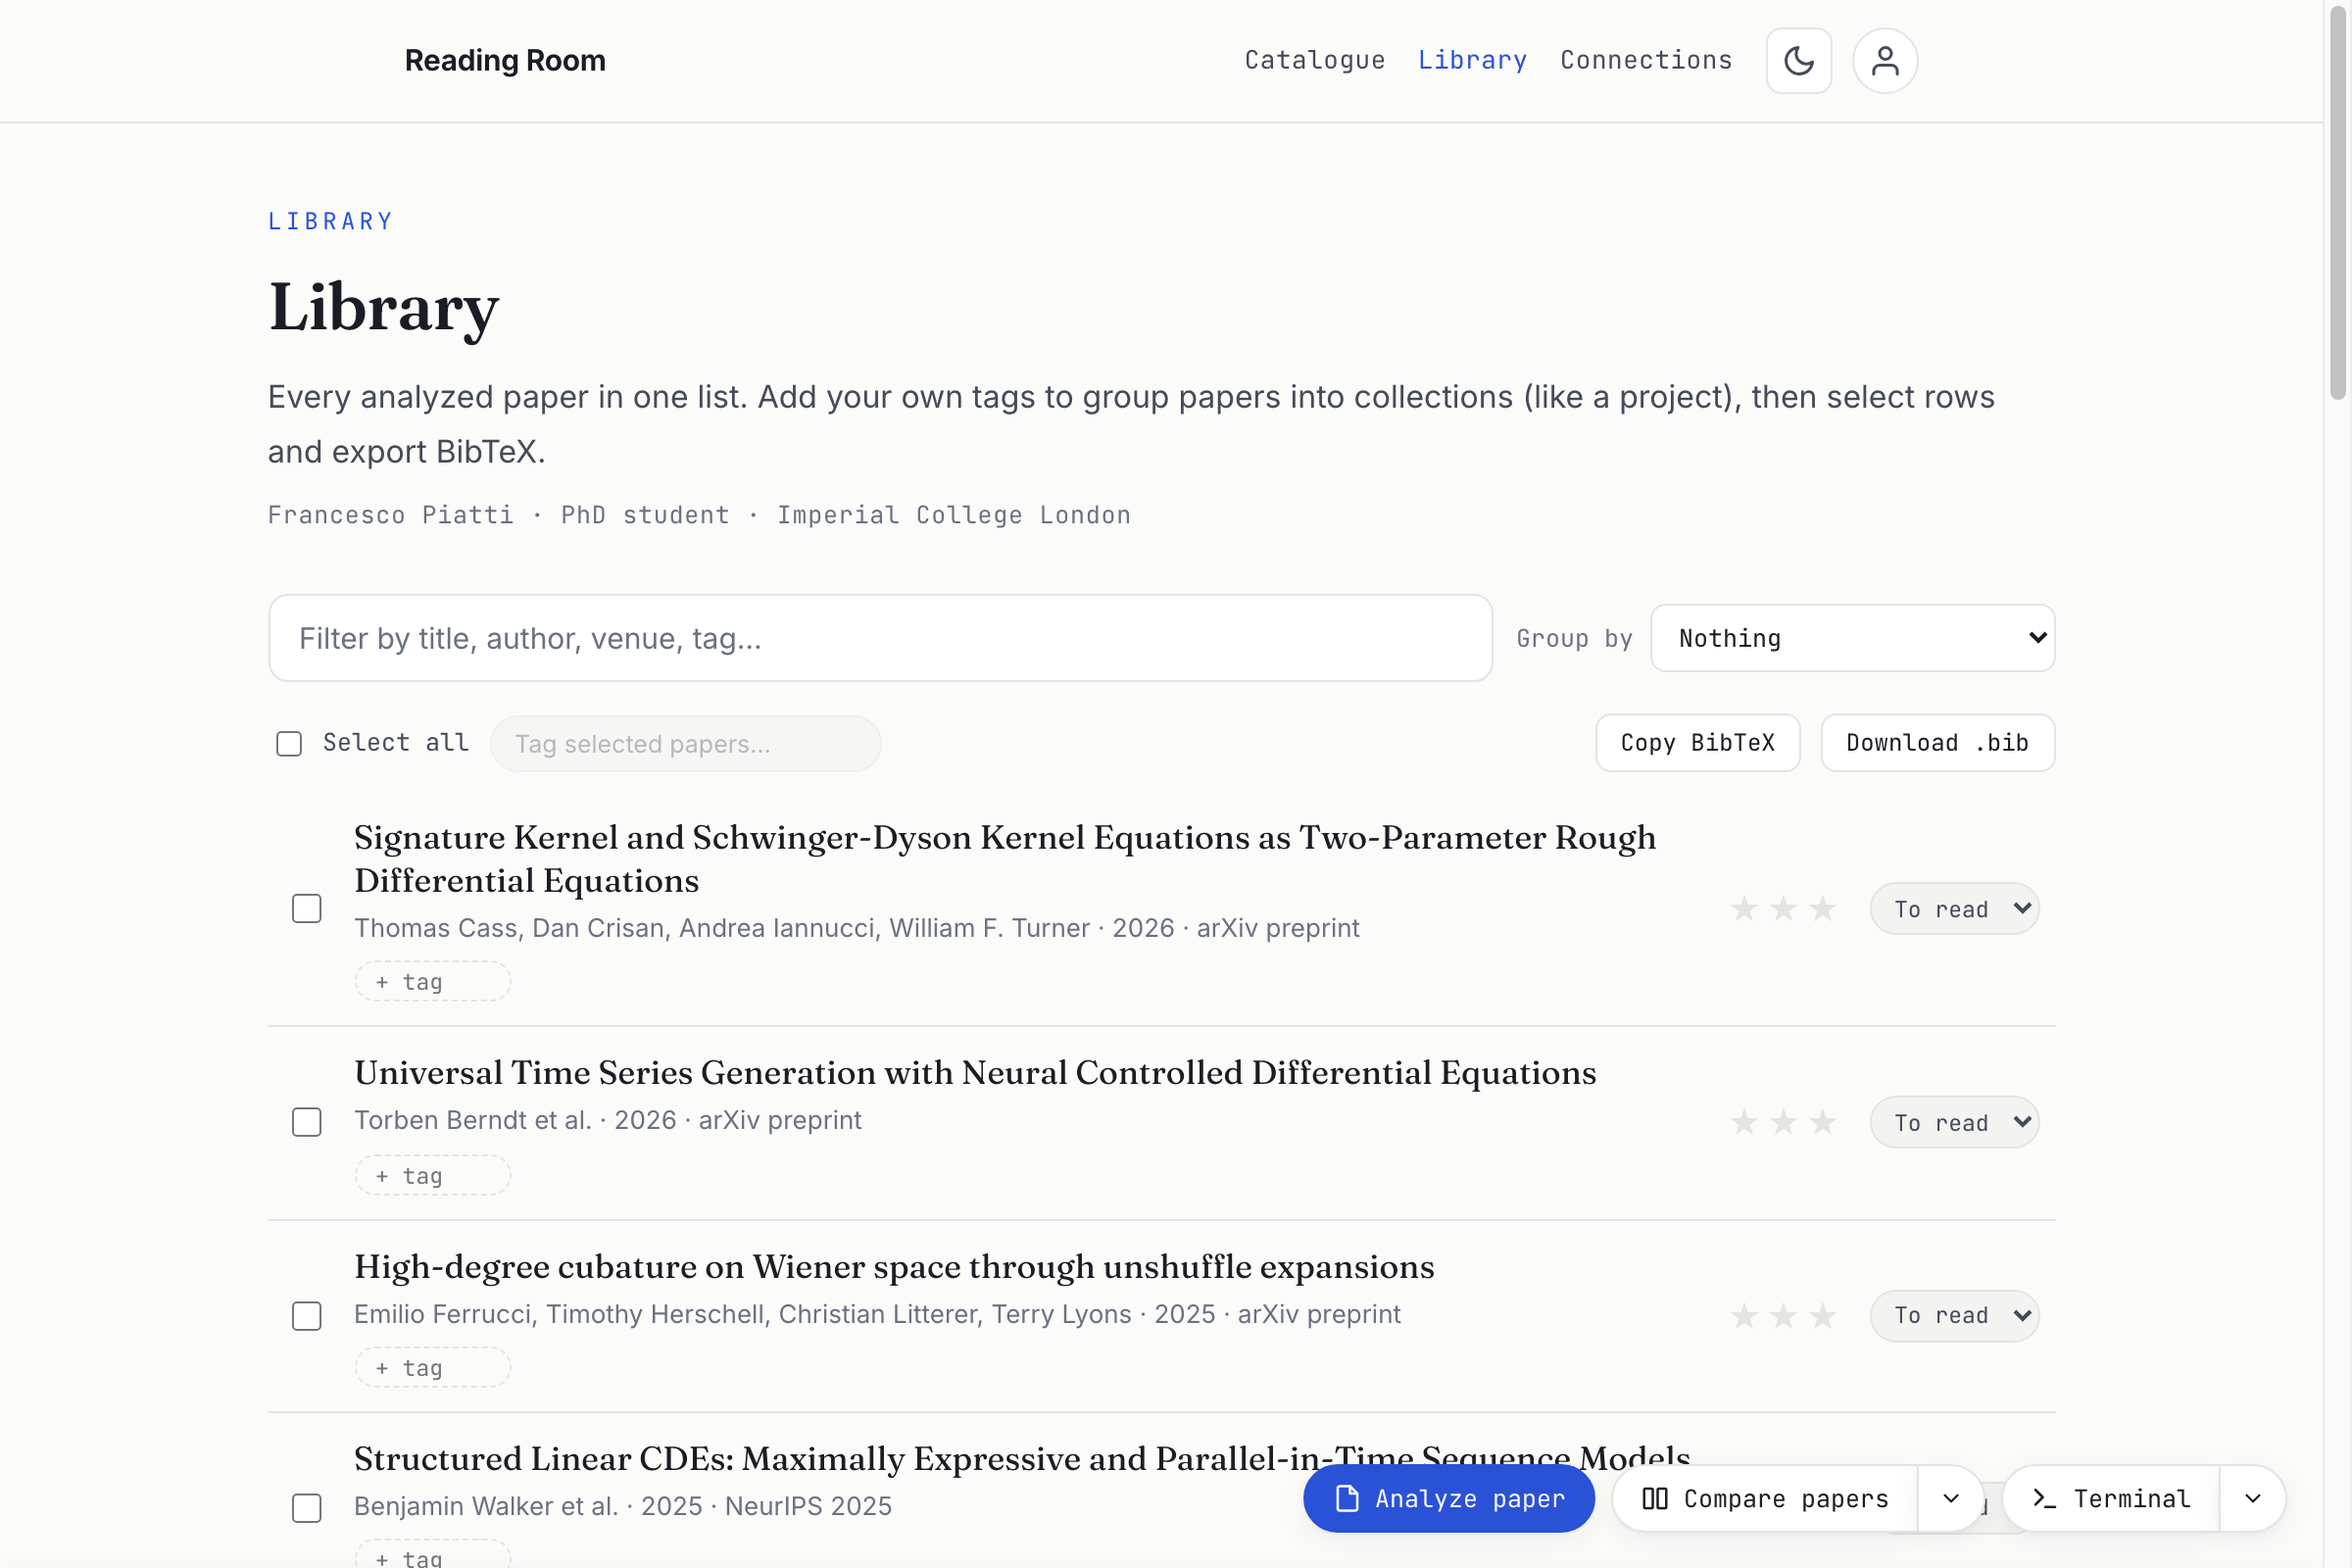
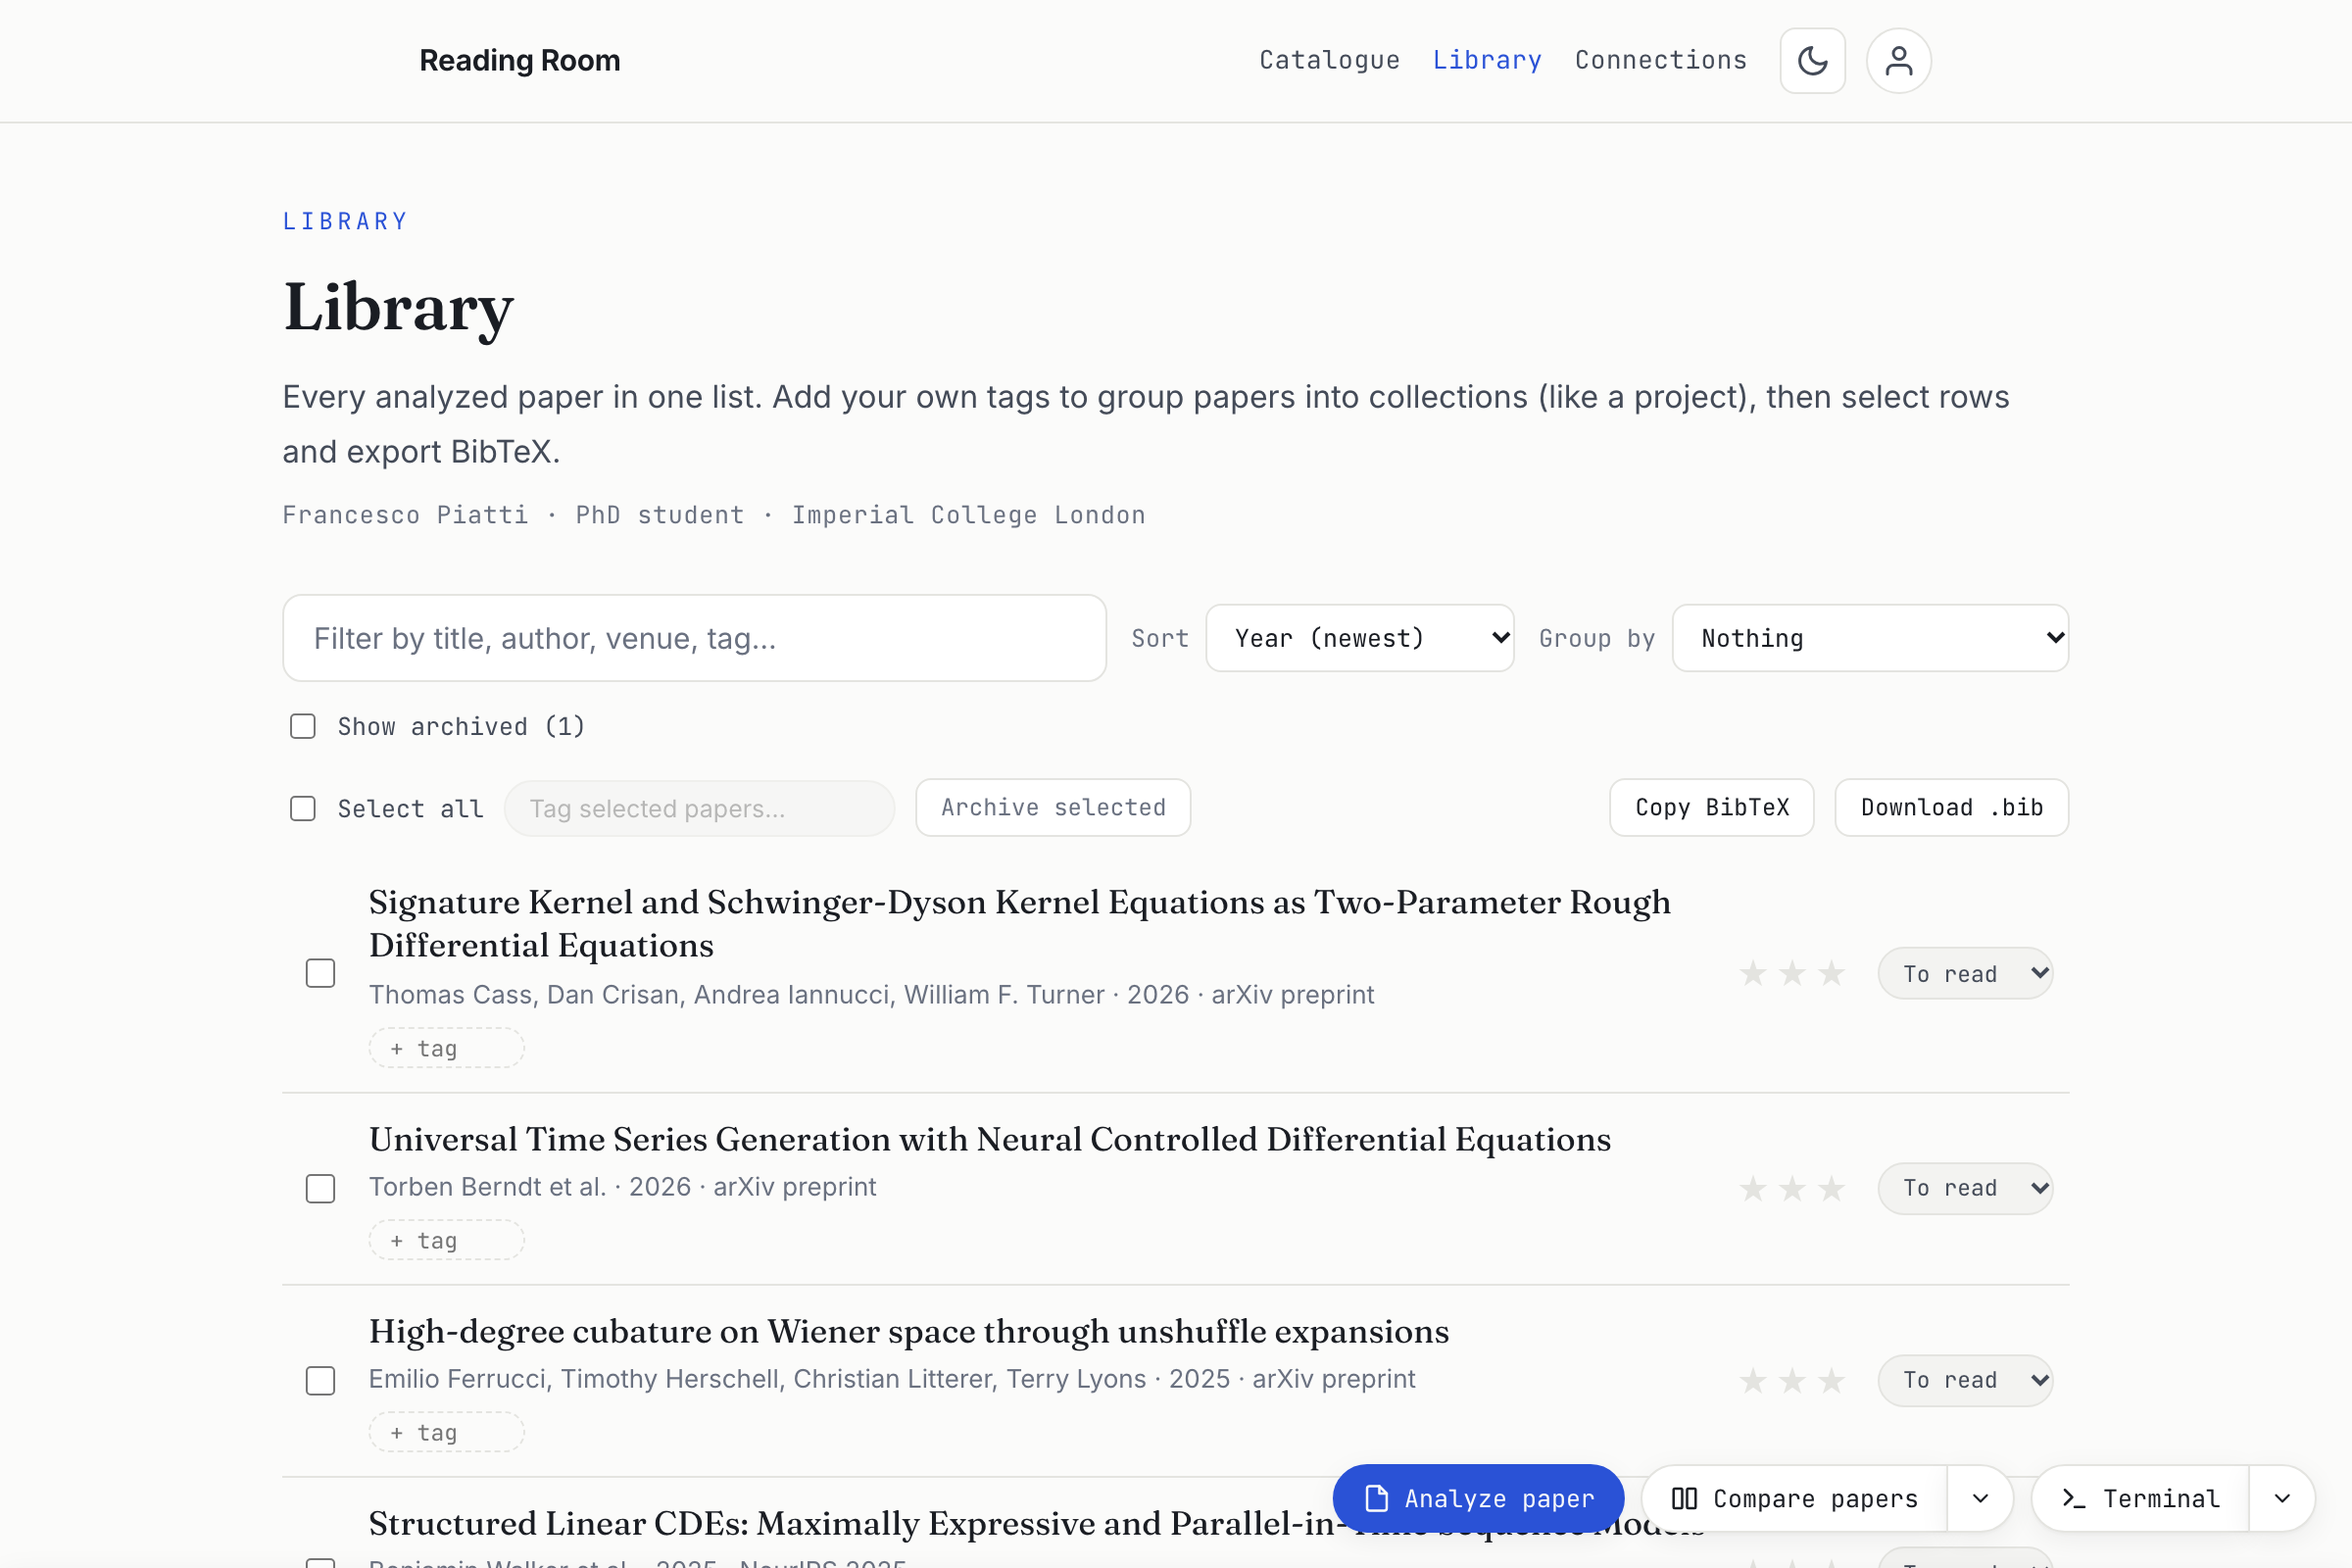
Reading Room 1.3.3: Archive — refreshed Library and report screenshots, two sentences in How to use

diff --git a/how-to-use.html b/how-to-use.html
@@ -64,7 +64,7 @@
         <div class="n">2</div>
         <div>
           <h3>Read the report</h3>
-          <p>Each paper gets its own page: a one-paragraph lead, then focus views as tabs — the ones you chose in Setup, adapted to each paper (<b>Summary</b> and <b>Significance</b> are always written). Equations are real, selectable LaTeX; results land in tidy tables. Set a reading status and a star priority right on the page, open the paper itself with <b>View PDF</b>, and keep your own notes with <b>Edit notes</b>. <b>Remove paper</b> takes it out again — the report, its PDF and its page — after showing what depends on it.</p>
+          <p>Each paper gets its own page: a one-paragraph lead, then focus views as tabs — the ones you chose in Setup, adapted to each paper (<b>Summary</b> and <b>Significance</b> are always written). Equations are real, selectable LaTeX; results land in tidy tables. Set a reading status and a star priority right on the page (<b>Archived</b> tucks a paper away without deleting anything), open the paper itself with <b>View PDF</b>, and keep your own notes with <b>Edit notes</b>. <b>Remove paper</b> takes it out again — the report, its PDF and its page — after showing what depends on it, and offers <b>Archive instead</b>.</p>
           <figure class="frame">
             <div class="frame-bar"><i></i><i></i><i></i><span class="u">reading-room · report</span></div>
             <img src="assets/shots/report.png" alt="A report page showing the lead summary, tags, reading-status controls, and the focus-view tabs." loading="lazy">
@@ -76,7 +76,7 @@
         <div class="n">3</div>
         <div>
           <h3>Browse, search &amp; filter</h3>
-          <p>The home catalogue is instant: full-text search, tag chips, a To-read / Reading / Read filter, and a <b>Sort</b> (year, recently updated, title, priority, status) the app remembers. It shows your most recent papers first and keeps the page light.</p>
+          <p>The home catalogue is instant: full-text search, tag chips, a To-read / Reading / Read filter, and a <b>Sort</b> (year, recently updated, title, priority, status) the app remembers. It shows your most recent papers first and keeps the page light. Archived papers leave the catalogue and the Library for an <b>Archive</b> page of their own, reached from the foot of the catalogue — nothing is deleted.</p>
           <figure class="frame">
             <div class="frame-bar"><i></i><i></i><i></i><span class="u">reading-room · catalogue</span></div>
             <img src="assets/shots/catalogue-list.png" alt="The catalogue grid of paper cards with search, tag filters, and reading-status segments." loading="lazy">
